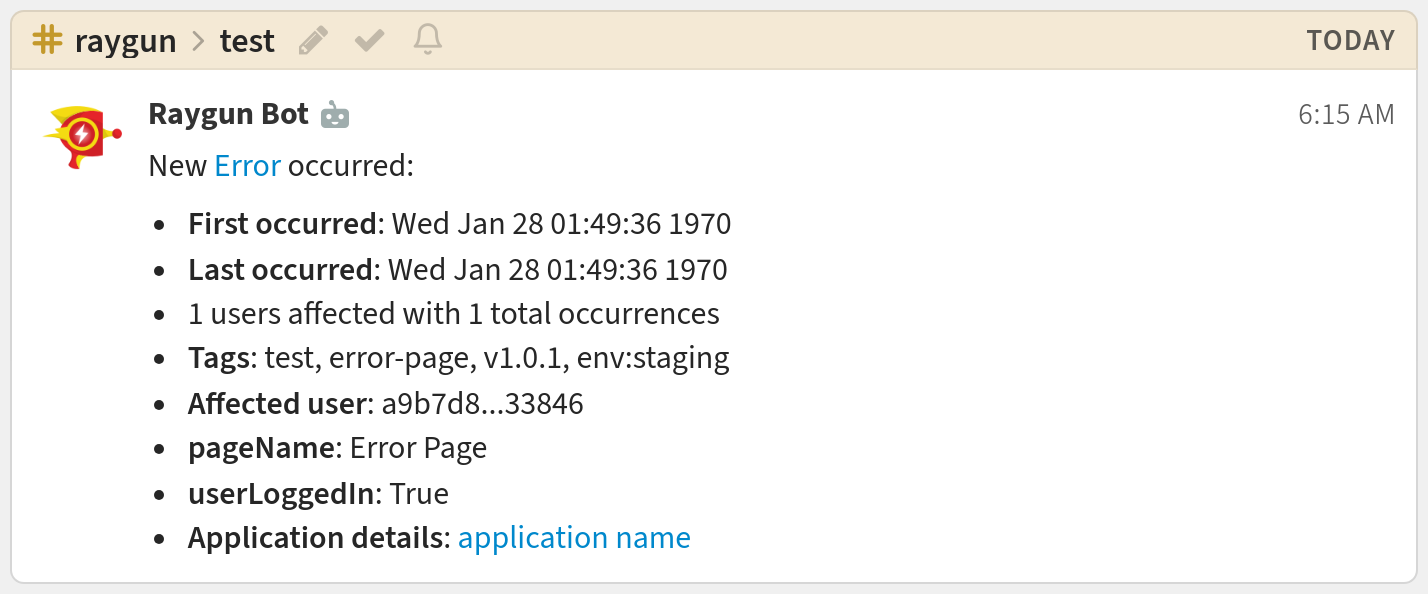
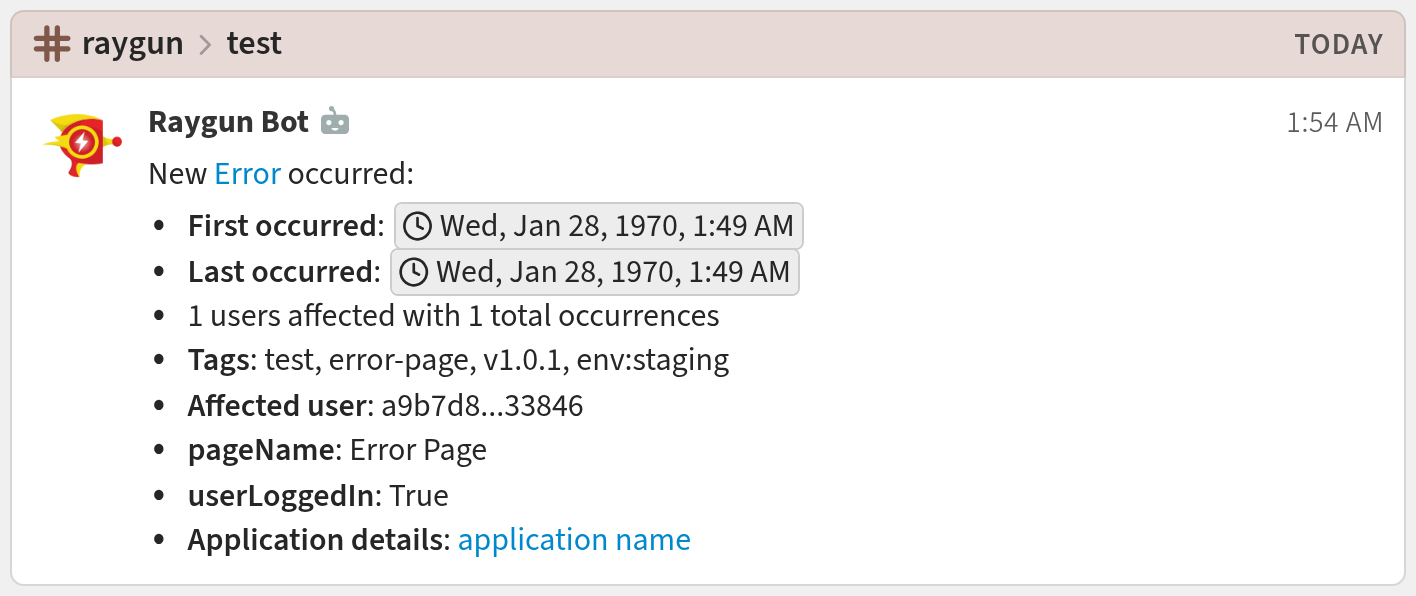
integrations/raygun: Use global time.

diff --git a/zerver/webhooks/raygun/tests.py b/zerver/webhooks/raygun/tests.py
@@ -10,7 +10,7 @@ class RaygunHookTests(WebhookTestCase):
         expected_topic_name = "test"
         expected_message = """
 [Error](https://app.raygun.com/error-url) status changed to **Ignored** by Emma Cat:
-* **Timestamp**: Wed Jan 28 01:49:36 1970
+* **Timestamp**: <time:Wed Jan 28 01:49:36 1970>
 * **Application details**: [Best App](http://app.raygun.io/application-url)
 """.strip()
 
@@ -29,7 +29,7 @@ Anita Peacock commented on [Error](https://app.raygun.com/error-url):
 ``` quote
 Ignoring these errors
 ```
-* **Timestamp**: Wed Jan 28 01:49:36 1970
+* **Timestamp**: <time:Wed Jan 28 01:49:36 1970>
 * **Application details**: [application name](http://app.raygun.io/application-url)
 """.strip()
 
@@ -44,7 +44,7 @@ Ignoring these errors
         expected_topic_name = "test"
         expected_message = """
 Amy Loondon assigned [Error](https://app.raygun.com/error-url) to Kyle Kenny:
-* **Timestamp**: Wed Jan 28 01:49:36 1970
+* **Timestamp**: <time:Wed Jan 28 01:49:36 1970>
 * **Application details**: [application name](http://app.raygun.io/application-url)
 """.strip()
 
@@ -59,8 +59,8 @@ Amy Loondon assigned [Error](https://app.raygun.com/error-url) to Kyle Kenny:
         expected_topic_name = "test"
         expected_message = """
 One minute [follow-up error](http://app.raygun.io/error-url):
-* **First occurred**: Wed Jan 28 01:49:36 1970
-* **Last occurred**: Wed Jan 28 01:49:36 1970
+* **First occurred**: <time:Wed Jan 28 01:49:36 1970>
+* **Last occurred**: <time:Wed Jan 28 01:49:36 1970>
 * 1 users affected with 1 total occurrences
 * **Application details**: [application name](http://app.raygun.io/application-url)
 """.strip()
@@ -76,8 +76,8 @@ One minute [follow-up error](http://app.raygun.io/error-url):
         expected_topic_name = "test"
         expected_message = """
 Hourly [follow-up error](http://app.raygun.io/error-url):
-* **First occurred**: Wed Jan 28 01:49:36 1970
-* **Last occurred**: Wed Jan 28 01:49:36 1970
+* **First occurred**: <time:Wed Jan 28 01:49:36 1970>
+* **Last occurred**: <time:Wed Jan 28 01:49:36 1970>
 * 1 users affected with 1 total occurrences
 * **Application details**: [application name](http://app.raygun.io/application-url)
 """.strip()
@@ -93,8 +93,8 @@ Hourly [follow-up error](http://app.raygun.io/error-url):
         expected_topic_name = "test"
         expected_message = """
 New [Error](http://app.raygun.io/error-url) occurred:
-* **First occurred**: Wed Jan 28 01:49:36 1970
-* **Last occurred**: Wed Jan 28 01:49:36 1970
+* **First occurred**: <time:Wed Jan 28 01:49:36 1970>
+* **Last occurred**: <time:Wed Jan 28 01:49:36 1970>
 * 1 users affected with 1 total occurrences
 * **Tags**: test, error-page, v1.0.1, env:staging
 * **Affected user**: a9b7d8...33846
@@ -114,8 +114,8 @@ New [Error](http://app.raygun.io/error-url) occurred:
         expected_topic_name = "test"
         expected_message = """
 [Error](http://app.raygun.io/error-url) reoccurred:
-* **First occurred**: Wed Jan 28 01:49:36 1970
-* **Last occurred**: Wed Jan 28 01:49:36 1970
+* **First occurred**: <time:Wed Jan 28 01:49:36 1970>
+* **Last occurred**: <time:Wed Jan 28 01:49:36 1970>
 * 1 users affected with 1 total occurrences
 * **Tags**: test, error-page, v1.0.1, env:staging
 * **Affected user**: a9b7d8...33846

diff --git a/zerver/webhooks/raygun/view.py b/zerver/webhooks/raygun/view.py
@@ -81,7 +81,7 @@ def make_time_chunk(error_dict: WildValue) -> str:
     time_last = parse_time(error_dict["lastOccurredOn"].tame(check_string))
 
     # Provide time information about this error,
-    return f"* **First occurred**: {time_first}\n* **Last occurred**: {time_last}\n"
+    return f"* **First occurred**: <time:{time_first}>\n* **Last occurred**: <time:{time_last}>\n"
 
 
 def make_message_chunk(message: str) -> str:
@@ -252,7 +252,7 @@ def activity_message(payload: WildValue) -> str:
         assigned_to = payload["error"]["assignedTo"].tame(check_string)
         message += f"{user} assigned {error_link_md} to {assigned_to}:\n"
 
-    message += "* **Timestamp**: {}\n".format(
+    message += "* **Timestamp**: <time:{}>\n".format(
         parse_time(payload["error"]["activityDate"].tame(check_string))
     )
 
